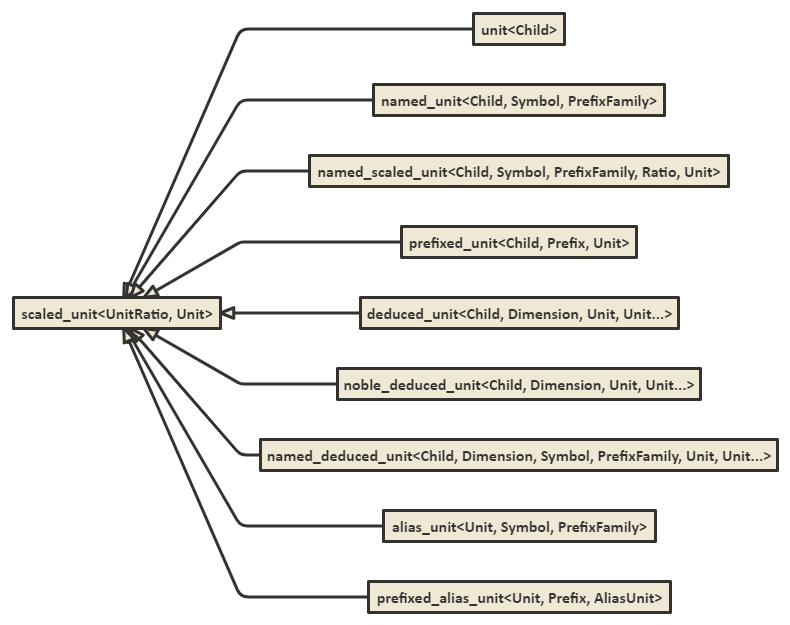
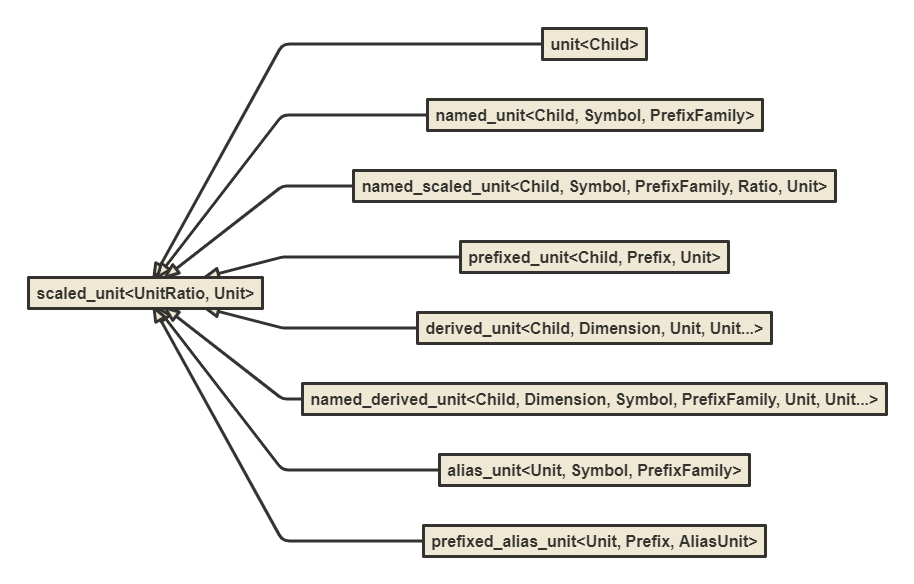
refactor: :boom: got rid of a `noble_derived_unit`
Resolves #280

diff --git a/src/core/include/units/unit.h b/src/core/include/units/unit.h
@@ -161,31 +161,6 @@ struct derived_unit : downcast_dispatch<Child, detail::derived_unit<Dim, U, URes
   using prefix_family = no_prefix;
 };
 
-
-/**
- * @brief A unit with a deduced ratio and symbol that can be used as a named unit for children 
- *
- * Defines a new unit with a deduced ratio and symbol based on the recipe from the provided
- * derived dimension. The number and order of provided units should match the recipe of the
- * derived dimension. All of the units provided should also be named ones so it is possible
- * to create a deduced symbol text.
- *
- * @tparam Child inherited class type used by the downcasting facility (CRTP Idiom)
- * @tparam Dim a derived dimension recipe to use for deduction
- * @tparam U the unit of the first composite dimension from provided derived dimension's recipe
- * @tparam URest the units for the rest of dimensions from the recipe
- */
-template<typename Child, DerivedDimension Dim, Unit U, Unit... URest>
-  requires detail::same_scaled_units<typename Dim::recipe, U, URest...> &&
-           (U::is_named && (URest::is_named && ... && true))
-// TODO - 'noble' is placeholder to sort of mean can pass its name on to other deduced units
-struct noble_derived_unit : downcast_dispatch<Child, detail::derived_unit<Dim, U, URest...>> {
-  static constexpr bool is_named = true;
-  static constexpr auto symbol = detail::derived_symbol_text<Dim, U, URest...>();
-  using prefix_family = no_prefix;
-};
-
-
 /**
  * @brief A named unit with a deduced ratio 
  *

diff --git a/test/unit_test/static/fps_test.cpp b/test/unit_test/static/fps_test.cpp
@@ -84,6 +84,8 @@ static_assert(10_q_pdl * 10_q_ft == 100_q_ft_pdl);
 static_assert(100_q_ft_pdl / 10_q_ft == 10_q_pdl);
 static_assert(100_q_ft_pdl / 10_q_pdl == 10_q_ft);
 
+static_assert(detail::unit_text<dim_energy, foot_pound_force>() == basic_symbol_text("ft ⋅ lbf", "ft lbf"));
+
 /* ************** DERIVED DIMENSIONS IN TERMS OF OTHER UNITS **************** */
 
 // power
@@ -92,6 +94,6 @@ static_assert(10_q_ft_pdl / 10_q_s == 1_q_ft_pdl_per_s);
 static_assert(1_q_ft_pdl_per_s * 10_q_s == 10_q_ft_pdl);
 static_assert(10_q_ft_pdl / 1_q_ft_pdl_per_s == 10_q_s);
 
-// static_assert(detail::unit_text<dim_power, foot_pound_force_per_second>() == "ft_lbf/s");
+static_assert(detail::unit_text<dim_power, foot_pound_force_per_second>() == basic_symbol_text("ft ⋅ lbf/s", "ft lbf/s"));
 
 }

diff --git a/src/systems/isq/include/units/isq/dimensions/power.h b/src/systems/isq/include/units/isq/dimensions/power.h
@@ -28,8 +28,14 @@
 
 namespace units::isq {
 
+template<typename Child, Unit U, typename...>
+struct dim_power;
+
 template<typename Child, Unit U, DimensionOfT<dim_energy> E, DimensionOfT<dim_time> T>
-struct dim_power : derived_dimension<Child, U, exponent<E, 1>, exponent<T, -1>> {};
+struct dim_power<Child, U, E, T> : derived_dimension<Child, U, exponent<E, 1>, exponent<T, -1>> {};
+
+template<typename Child, Unit U, DimensionOfT<dim_length> L, DimensionOfT<dim_force> F, DimensionOfT<dim_time> T>
+struct dim_power<Child, U, L, F, T> : derived_dimension<Child, U, exponent<L, 1>, exponent<F, 1>, exponent<T, -1>> {};
 
 template<typename T>
 concept Power = QuantityOfT<T, dim_power>;

diff --git a/src/systems/si-fps/include/units/isq/si/fps/power.h b/src/systems/si-fps/include/units/isq/si/fps/power.h
@@ -37,9 +37,9 @@ namespace units::isq::si::fps {
 
 struct foot_poundal_per_second : unit<foot_poundal_per_second> {};
 
-struct dim_power : isq::dim_power<dim_power, foot_poundal_per_second, dim_energy, dim_time> {};
+struct dim_power : isq::dim_power<dim_power, foot_poundal_per_second, dim_length, dim_force, dim_time> {};
 
-struct foot_pound_force_per_second : derived_unit<foot_pound_force_per_second, dim_power, foot_pound_force, second> {};
+struct foot_pound_force_per_second : derived_unit<foot_pound_force_per_second, dim_power, foot, pound_force, second> {};
 
 struct horse_power : named_scaled_unit<horse_power, "hp", no_prefix, ratio(550), foot_pound_force_per_second> {};
 

diff --git a/src/systems/si-fps/include/units/isq/si/fps/energy.h b/src/systems/si-fps/include/units/isq/si/fps/energy.h
@@ -37,10 +37,10 @@ namespace units::isq::si::fps {
 // https://en.wikipedia.org/wiki/Foot-poundal
 struct foot_poundal : unit<foot_poundal> {};
 
-struct dim_energy : isq::dim_energy<dim_energy, foot_poundal, dim_force, dim_length> {};
+struct dim_energy : isq::dim_energy<dim_energy, foot_poundal, dim_length, dim_force> {};
 
 // https://en.wikipedia.org/wiki/Foot-pound_(energy)
-struct foot_pound_force : noble_derived_unit<foot_pound_force, dim_energy, pound_force, foot> {};
+ struct foot_pound_force : derived_unit<foot_pound_force, dim_energy, foot, pound_force> {};
 
 template<UnitOf<dim_energy> U, Representation Rep = double>
 using energy = quantity<dim_energy, U, Rep>;

diff --git a/src/systems/isq/include/units/isq/dimensions/energy.h b/src/systems/isq/include/units/isq/dimensions/energy.h
@@ -28,8 +28,14 @@
 
 namespace units::isq {
 
+template<typename Child, Unit U, typename...>
+struct dim_energy;
+
 template<typename Child, Unit U, DimensionOfT<dim_force> F, DimensionOfT<dim_length> L>
-struct dim_energy : derived_dimension<Child, U, exponent<F, 1>, exponent<L, 1>> {};
+struct dim_energy<Child, U, F, L> : derived_dimension<Child, U, exponent<F, 1>, exponent<L, 1>> {};
+
+template<typename Child, Unit U, DimensionOfT<dim_length> L, DimensionOfT<dim_force> F>
+struct dim_energy<Child, U, L, F> : derived_dimension<Child, U, exponent<L, 1>, exponent<F, 1>> {};
 
 template<typename T>
 concept Energy = QuantityOfT<T, dim_energy>;

diff --git a/docs/framework/units.rst b/docs/framework/units.rst
@@ -315,15 +315,13 @@ does not exist at all. With it ``si::kilometre_per_hour`` can be defined as::
 
     }
 
-In case the scaled derived unit should serve as a named one we can use either
+In case the scaled derived unit should serve as a named one we can use
 a `named_derived_unit` where the user is able to provide a symbol for the unit
-by him/her-self or `noble_derived_unit` where the symbol is the deduced name
-based on the ingredients::
+by him/her-self::
 
     namespace si::fps {
 
     struct knot : named_derived_unit<knot, dim_speed, "knot", no_prefix, nautical_mile, hour> {};
-    struct foot_pound_force : noble_derived_unit<foot_pound_force, dim_energy, pound_force, foot> {};
 
     }
 
@@ -380,7 +378,6 @@ of a `scaled_unit` class template:
     [scaled_unit<UnitRatio, Unit>]<:-[named_scaled_unit<Child, Symbol, PrefixFamily, Ratio, Unit>]
     [scaled_unit<UnitRatio, Unit>]<:-[prefixed_unit<Child, Prefix, Unit>]
     [scaled_unit<UnitRatio, Unit>]<:-[derived_unit<Child, Dimension, Unit, Unit...>]
-    [scaled_unit<UnitRatio, Unit>]<:-[noble_derived_unit<Child, Dimension, Unit, Unit...>]
     [scaled_unit<UnitRatio, Unit>]<:-[named_derived_unit<Child, Dimension, Symbol, PrefixFamily, Unit, Unit...>]
     [scaled_unit<UnitRatio, Unit>]<:-[alias_unit<Unit, Symbol, PrefixFamily>]
     [scaled_unit<UnitRatio, Unit>]<:-[prefixed_alias_unit<Unit, Prefix, AliasUnit>]

diff --git a/docs/CHANGELOG.md b/docs/CHANGELOG.md
@@ -7,6 +7,7 @@
   - (!) refactor: `quantity::count()` renamed to `quantity::number()`
   - (!) refactor: `data` system renamed to `isq::iec80000` (quantity names renamed too)
   - (!) refactor: `*deduced_unit` renamed to `*derived_unit`
+  - (!) refactor: got rid of a `noble_derived_unit`
   - refactor: quantity (kind) point updated to reflect latest changes to `quantity`
   - refactor: basic concepts, `quantity` and `quantity_cast` refactored
   - refactor: `abs()` definition refactored to be more explicit about the return type
@@ -32,6 +33,7 @@
   - fix: ambiguous case for empty type list resolved
   - fix: downcasting facility for non-default-constructible types
   - fix: restore user-warnings within the library implementation
+  - fix: the text symbol of `foot_pound_force` and `foot_pound_force_per_second`
   - (!) build: Conan testing version is now hosted on [Artifactory](https://mpusz.jfrog.io/ui/packages/conan:%2F%2Fmp-units)
   - (!) build: Linear Algebra is now hosted on its [Artifactory](https://twonington.jfrog.io/artifactory/api/conan/conan-oss)
   - (!) build: `BUILD_DOCS` CMake option renamed to `UNITS_BUILD_DOCS`

diff --git a/docs/reference/core/types/units.rst b/docs/reference/core/types/units.rst
@@ -19,9 +19,6 @@ Units
 .. doxygenstruct:: units::derived_unit
    :members:
 
-.. doxygenstruct:: units::noble_derived_unit
-   :members:
-
 .. doxygenstruct:: units::named_derived_unit
    :members:
 
